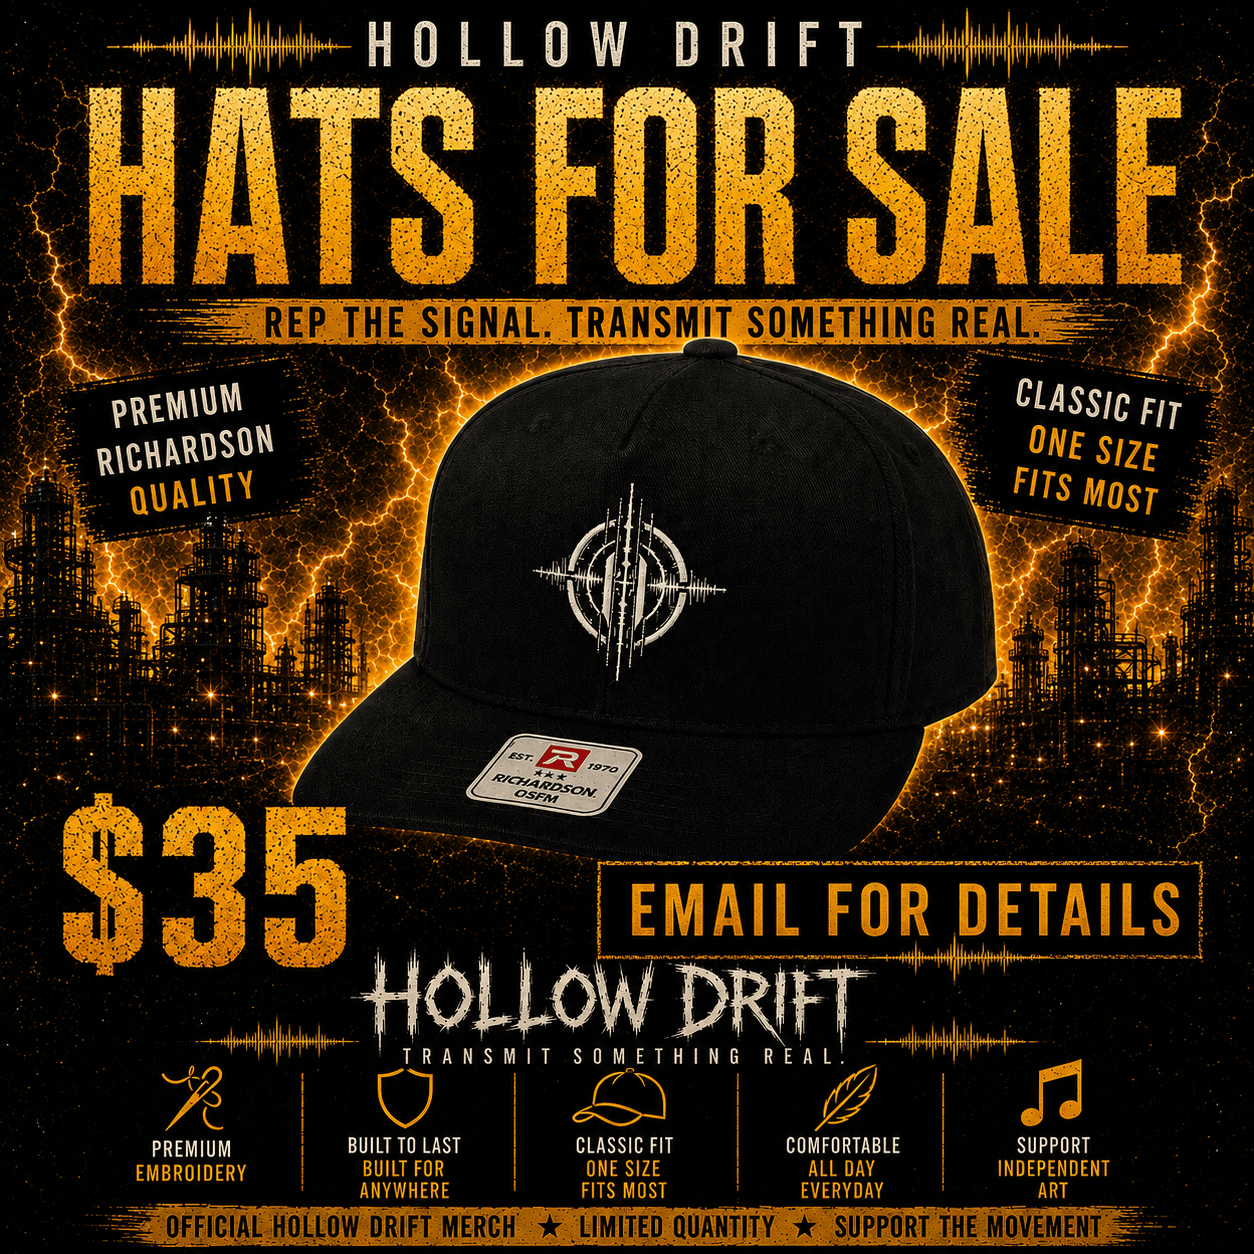
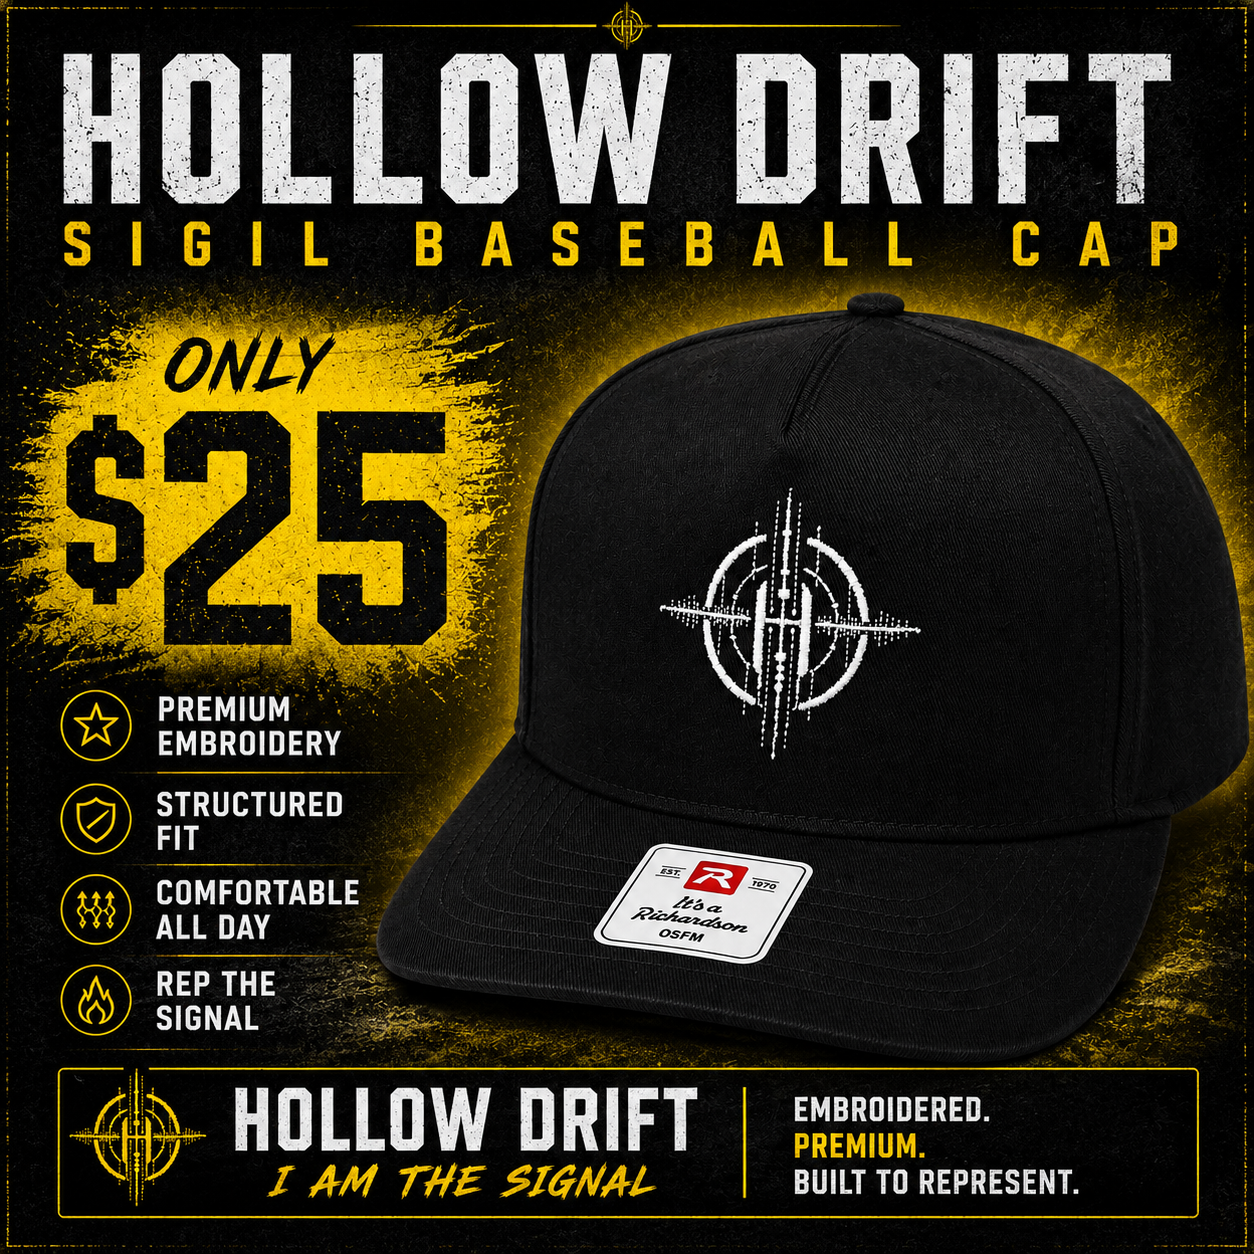
Update hat pricing and replace product image

diff --git a/index.html b/index.html
@@ -832,7 +832,7 @@
         </a>
 
         <div class="showInfo" style="margin-top:16px;">
-          Official embroidered Richardson hats — <strong>$35</strong>. Email for details or show pickup.
+          Official embroidered Richardson hats — <strong>$25</strong>. Email for details or show pickup.
         </div>
 
         <div style="margin-top:16px;">
